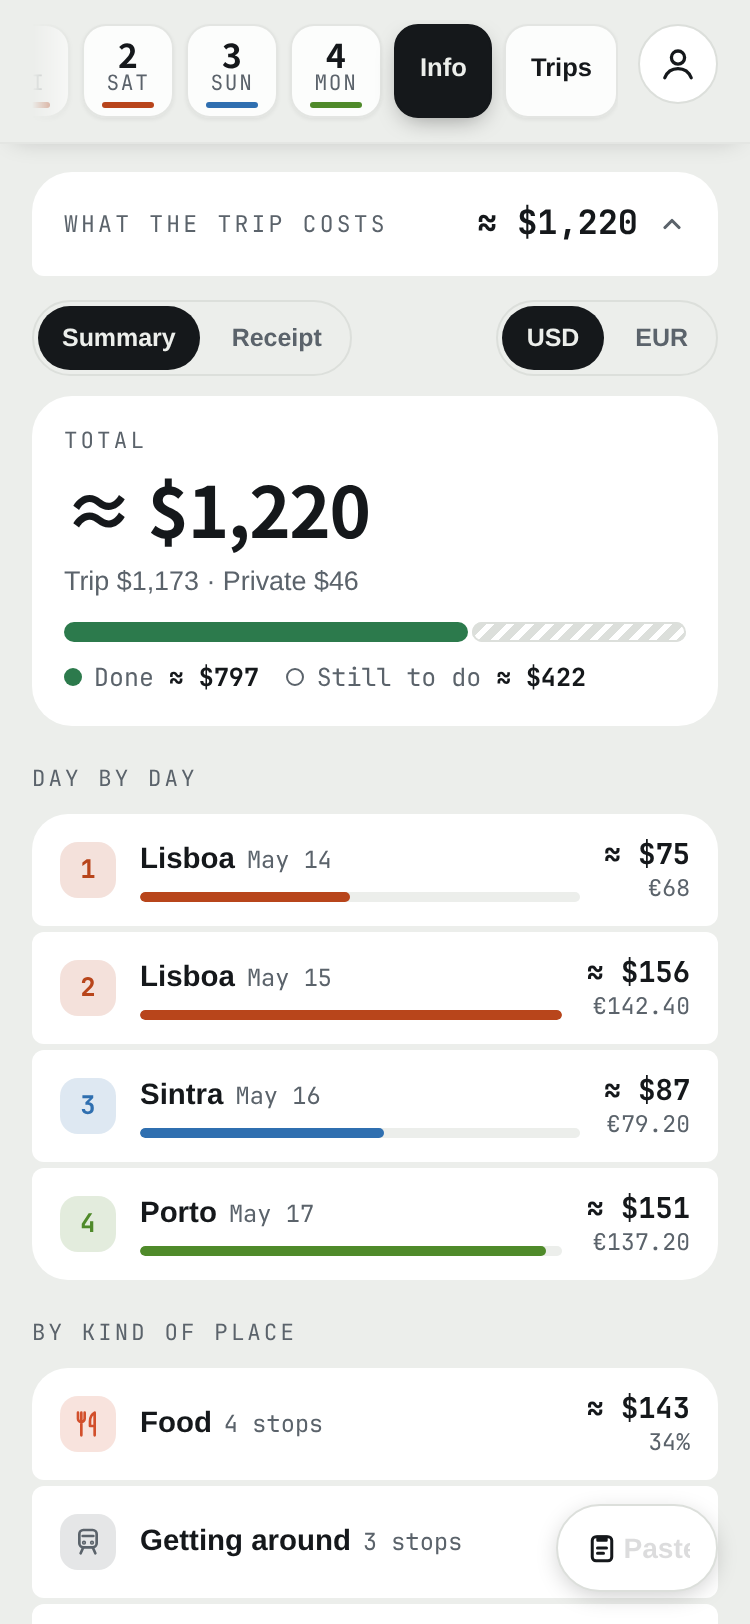
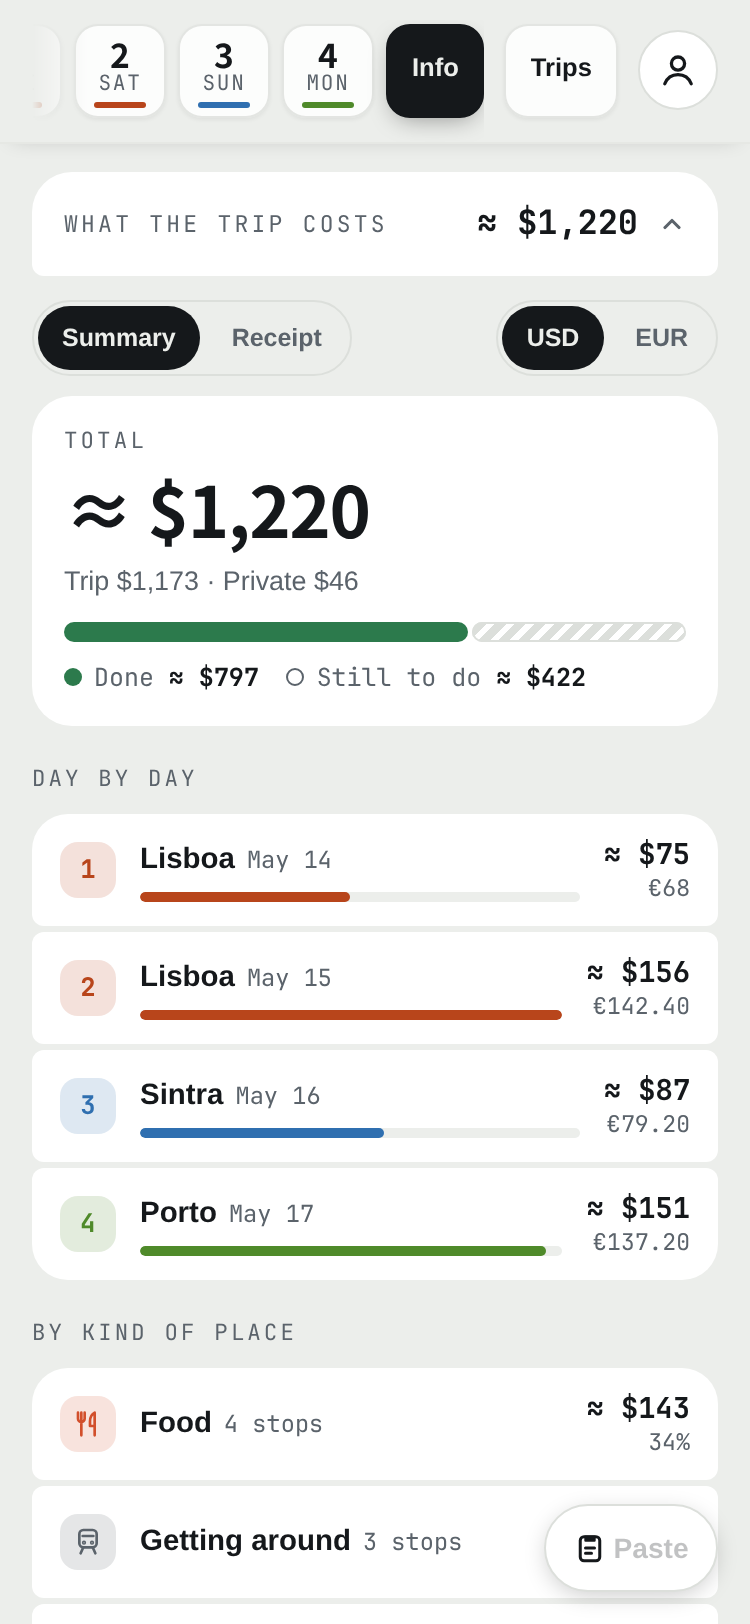
3.24.1: Trips stays in view, next to the circle
The Trips chip leaves the scrolling list of days and stays at the top right
beside the circle, the same height as the days. Screenshots retaken.

diff --git a/js/app.js b/js/app.js
@@ -650,8 +650,11 @@ function renderStrip(r){
     const dp = dateParts(d.date, lang), cur = r.name === "day" && r.i === i;
     return `<a class="dchip${i === ti ? " today" : ""}" href="#day-${i + 1}" style="--c:${cityVar(d.city)}"${cur ? ' aria-current="page"' : ""} aria-label="${esc(t("day"))} ${i + 1}, ${esc(dp.long)}${i === ti ? ", " + esc(t("today")) : ""}"><span class="n">${i + 1}</span><span class="w">${esc(dp.dow)}</span></a>`;
   }).join("") +
-    `<a class="dchip info" href="#info"${r.name === "info" ? ' aria-current="page"' : ""}>${esc(t("info"))}</a>` +
-    `<a class="dchip info" href="#trips"${r.name === "trips" ? ' aria-current="page"' : ""}>${esc(t("trips"))}</a>`;
+    `<a class="dchip info" href="#info"${r.name === "info" ? ' aria-current="page"' : ""}>${esc(t("info"))}</a>`;
+  // Trips stays in view on the right, next to the circle: the days scroll on their own.
+  const tripsChip = document.getElementById("trips-chip");
+  tripsChip.textContent = t("trips");
+  if(r.name === "trips") tripsChip.setAttribute("aria-current", "page"); else tripsChip.removeAttribute("aria-current");
   const active = $days.querySelector('[aria-current="page"]');
   if(active) $days.scrollLeft = active.offsetLeft - ($days.clientWidth - active.offsetWidth) / 2;
   markStrip();

diff --git a/css/app.css b/css/app.css
@@ -574,7 +574,8 @@ button.crow{cursor:pointer}
 /* The circle at the top right: You (the account, the settings). */
 .strip .gutter{display:flex;align-items:flex-start;gap:10px}
 #days{flex:1 1 auto;min-width:0}
-.me-btn{flex:none;width:40px;height:40px;margin-top:2px;border-radius:50%;display:grid;place-items:center;background:var(--card);color:var(--ink);border:1px solid var(--line);text-decoration:none;font:700 1rem var(--f-display)}
+#trips-chip{flex:none;margin-top:2px;min-height:47px}
+.me-btn{flex:none;width:40px;height:40px;margin-top:5px;border-radius:50%;display:grid;place-items:center;background:var(--card);color:var(--ink);border:1px solid var(--line);text-decoration:none;font:700 1rem var(--f-display)}
 .me-btn svg{width:22px;height:22px}
 .me-btn.signed{background:var(--ink);color:var(--bg);border-color:var(--ink)}
 .me-btn[aria-current="page"]{box-shadow:0 0 0 3px var(--bg),0 0 0 5px var(--ink)}

diff --git a/index.html b/index.html
@@ -29,7 +29,7 @@
 <link rel="stylesheet" href="css/app.css">
 </head>
 <body>
-<header class="strip" hidden><div class="gutter"><nav id="days"></nav><a class="me-btn" id="me-btn" href="#me"></a></div></header>
+<header class="strip" hidden><div class="gutter"><nav id="days"></nav><a class="dchip info" id="trips-chip" href="#trips"></a><a class="me-btn" id="me-btn" href="#me"></a></div></header>
 <main id="app" class="gutter"></main>
 <div id="toast" role="status" aria-live="polite" hidden></div>
 <input type="file" id="file" accept=".json,application/json" hidden>

diff --git a/CHANGELOG.md b/CHANGELOG.md
@@ -4,6 +4,11 @@ Versions follow [Semantic Versioning](https://semver.org/). The trip file format
 its own version: `travel-in-my-pocket/2` since 3.0. Files in `travel-in-my-pocket/1`
 (1.0 to 2.4) still load: the app converts them.
 
+## 3.24.1
+
+- **Trips** stays in view at the top right, next to the circle: on a phone the days
+  scroll on their own and no longer push it out of sight.
+
 ## 3.24.0
 
 You: the account and the settings in a place of their own.
